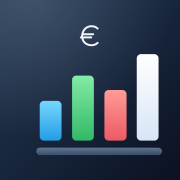
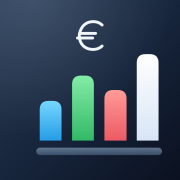
Agrandar el euro y redondear la parte superior de las barras

diff --git a/sw.js b/sw.js
@@ -2,19 +2,19 @@
 // y también sin conexión. Los datos (Firestore), el login (Google) y las cotizaciones (prices.json) nunca pasan por aquí.
 //
 // Sube la versión de CACHE cada vez que cambie la lista PRECACHE (por ejemplo al actualizar Chart.js o Firebase).
-const CACHE = "finanzas-v11";
+const CACHE = "finanzas-v12";
 const PRECACHE = [
   "./",
   "./index.html",
   "./firebase-config.js",
   "./push-config.js",
-  "./manifest.webmanifest?v=11",
+  "./manifest.webmanifest?v=12",
   "./icon-192.png",
-  "./icon-192.png?v=11",
-  "./icon-512.png?v=11",
-  "./icon-maskable.png?v=11",
+  "./icon-192.png?v=12",
+  "./icon-512.png?v=12",
+  "./icon-maskable.png?v=12",
   "./badge-96.png",
-  "./apple-touch-icon.png?v=11",
+  "./apple-touch-icon.png?v=12",
   "https://cdnjs.cloudflare.com/ajax/libs/Chart.js/4.5.1/chart.umd.min.js",
   "https://cdnjs.cloudflare.com/ajax/libs/limonte-sweetalert2/11.14.5/sweetalert2.all.min.js",
   "https://www.gstatic.com/firebasejs/12.19.0/firebase-app.js",

diff --git a/index.html b/index.html
@@ -6,9 +6,9 @@
 <meta name="color-scheme" content="light dark">
 <meta name="theme-color" media="(prefers-color-scheme: light)" content="#0f172a">
 <meta name="theme-color" media="(prefers-color-scheme: dark)" content="#0b1120">
-<link rel="manifest" href="manifest.webmanifest?v=11">
-<link rel="icon" href="icon-192.png?v=11" type="image/png">
-<link rel="apple-touch-icon" sizes="180x180" href="apple-touch-icon.png?v=11">
+<link rel="manifest" href="manifest.webmanifest?v=12">
+<link rel="icon" href="icon-192.png?v=12" type="image/png">
+<link rel="apple-touch-icon" sizes="180x180" href="apple-touch-icon.png?v=12">
 <meta name="apple-mobile-web-app-capable" content="yes">
 <meta name="apple-mobile-web-app-status-bar-style" content="black-translucent">
 <meta name="apple-mobile-web-app-title" content="Mis Finanzas">
